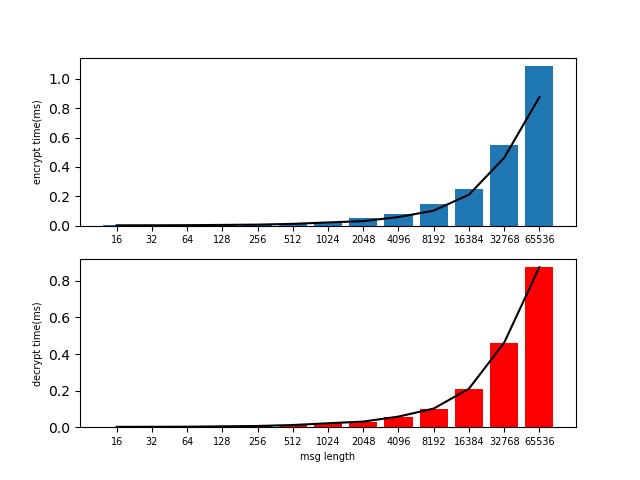
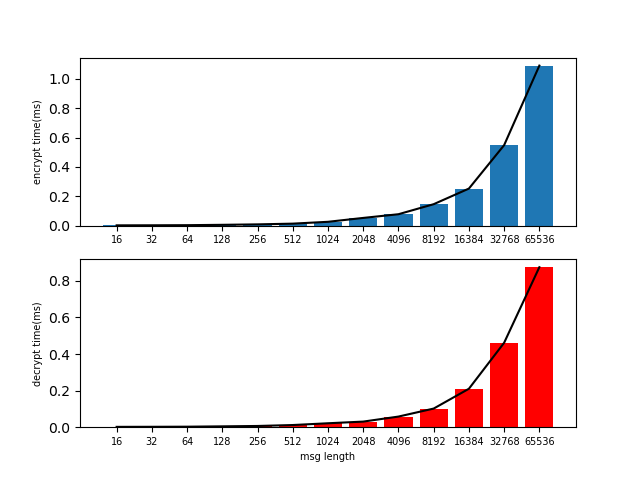
[fix] draw sm4 performance bug

Changed region(s): [[0.75, 0.125, 0.8438, 0.375], [0.4375, 0.4062, 0.7188, 0.4688], [0.7188, 0.375, 0.75, 0.4062]]

diff --git a/course/infor-system-security/sm4_cxx/tools/draw.py b/course/infor-system-security/sm4_cxx/tools/draw.py
@@ -17,7 +17,7 @@ def main():
     plt.bar(range(len(encrypt_time.keys())), list(
         encrypt_time.values()), tick_label=list(encrypt_time.keys()))
     plt.plot(range(len(encrypt_time.keys())),
-             decrypt_time.values(), color="black")
+             encrypt_time.values(), color="black")
     plt.xticks(fontsize=7)
     plt.ylabel("encrypt time(ms)", fontsize=7)
     plt.subplot(212)
